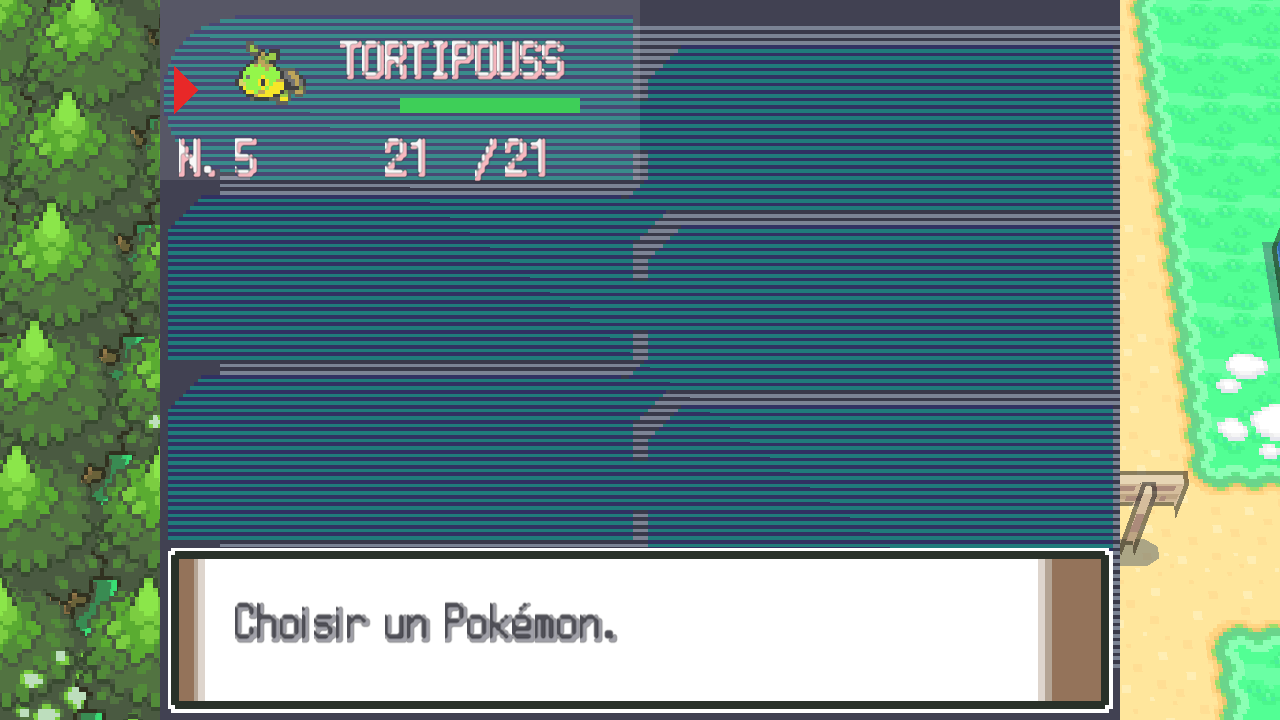
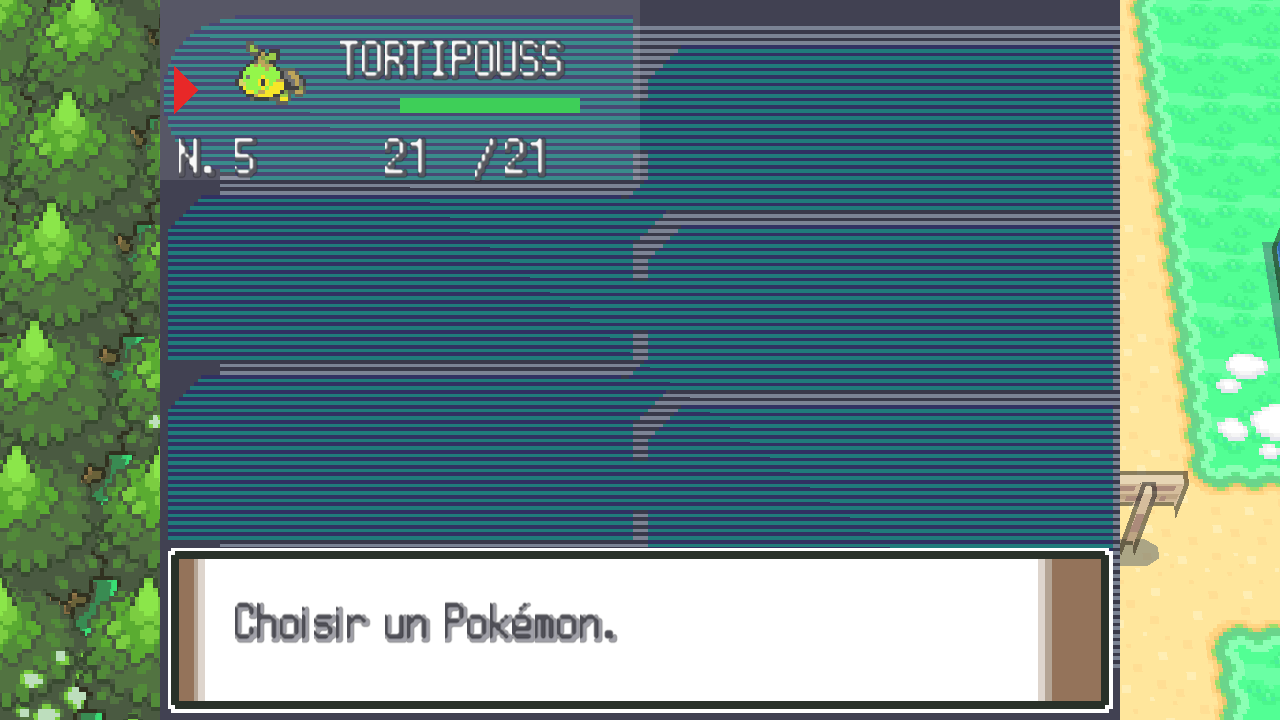
UI : oui/non blanc sur fenetre sombre DS, fond noir interieurs, captures a jour

diff --git a/cpp/src/main.cpp b/cpp/src/main.cpp
@@ -2495,7 +2495,7 @@ int main(int argc, char** argv) {
                                c2 = dp(206, iy + 8);
                         dld->AddTriangleFilled(c0, c1, c2, IM_COL32(232,40,40,255));
                     }
-                    dt_text(dld, yn[i], 208, iy, 0);
+                    dt_text(dld, yn[i], 208, iy, 7);   // blanc sur fenêtre sombre
                 }
             }
         }
@@ -3664,8 +3664,7 @@ int main(int argc, char** argv) {
                                    c2 = dp(207, iy + 8);
                             dl->AddTriangleFilled(c0, c1, c2, B_ORANGE);
                         }
-                        dt_text(dl, yn[i], 208, iy + 1,
-                            i == menu_sel ? 1 : 0);
+                        dt_text(dl, yn[i], 208, iy + 1, 7);   // blanc sur sombre
                     }
                 } else if (save_st == 1 || save_st == 2) {
                     save_t += ImGui::GetIO().DeltaTime;
